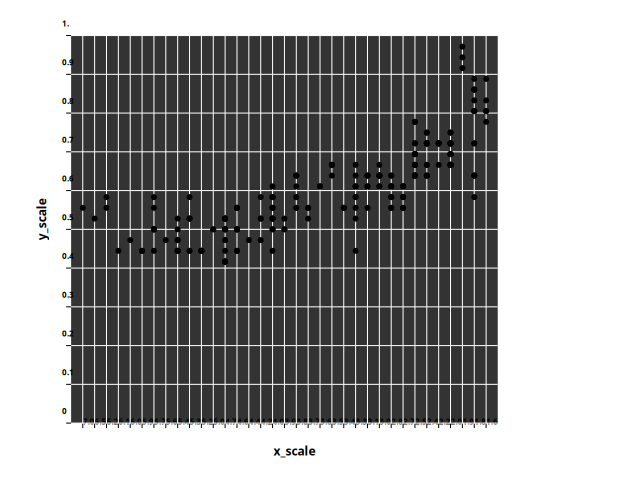
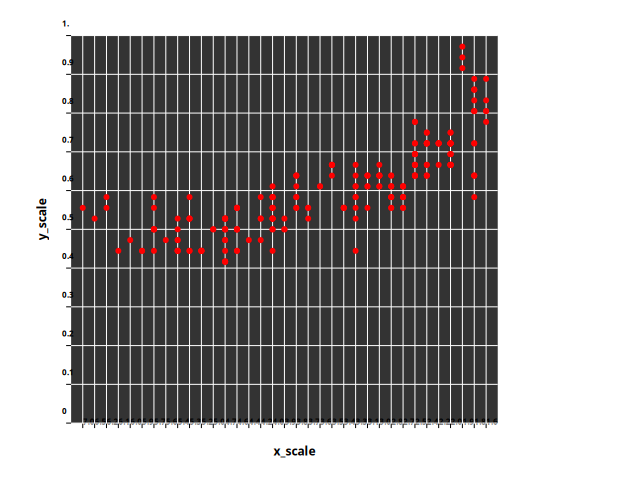
apply temporary fix for geom_point until background is fixed

diff --git a/src/python_ggplot/gg/geom/base.py b/src/python_ggplot/gg/geom/base.py
@@ -214,6 +214,11 @@ class GeomPoint(Geom):
         idx: int,
         style: Style,
     ):
+        # TODO CRITICAL+
+        # color is patched as red for now, because the background and grid seem to prevent from rendering
+        # this should be an easy fix needs some investigation
+        style.fill_color = Color(1, 0, 0, 1)
+        style.color = Color(1, 0, 0, 1)
         new_point = init_point(pos, style)
         view.add_obj(new_point)
 
